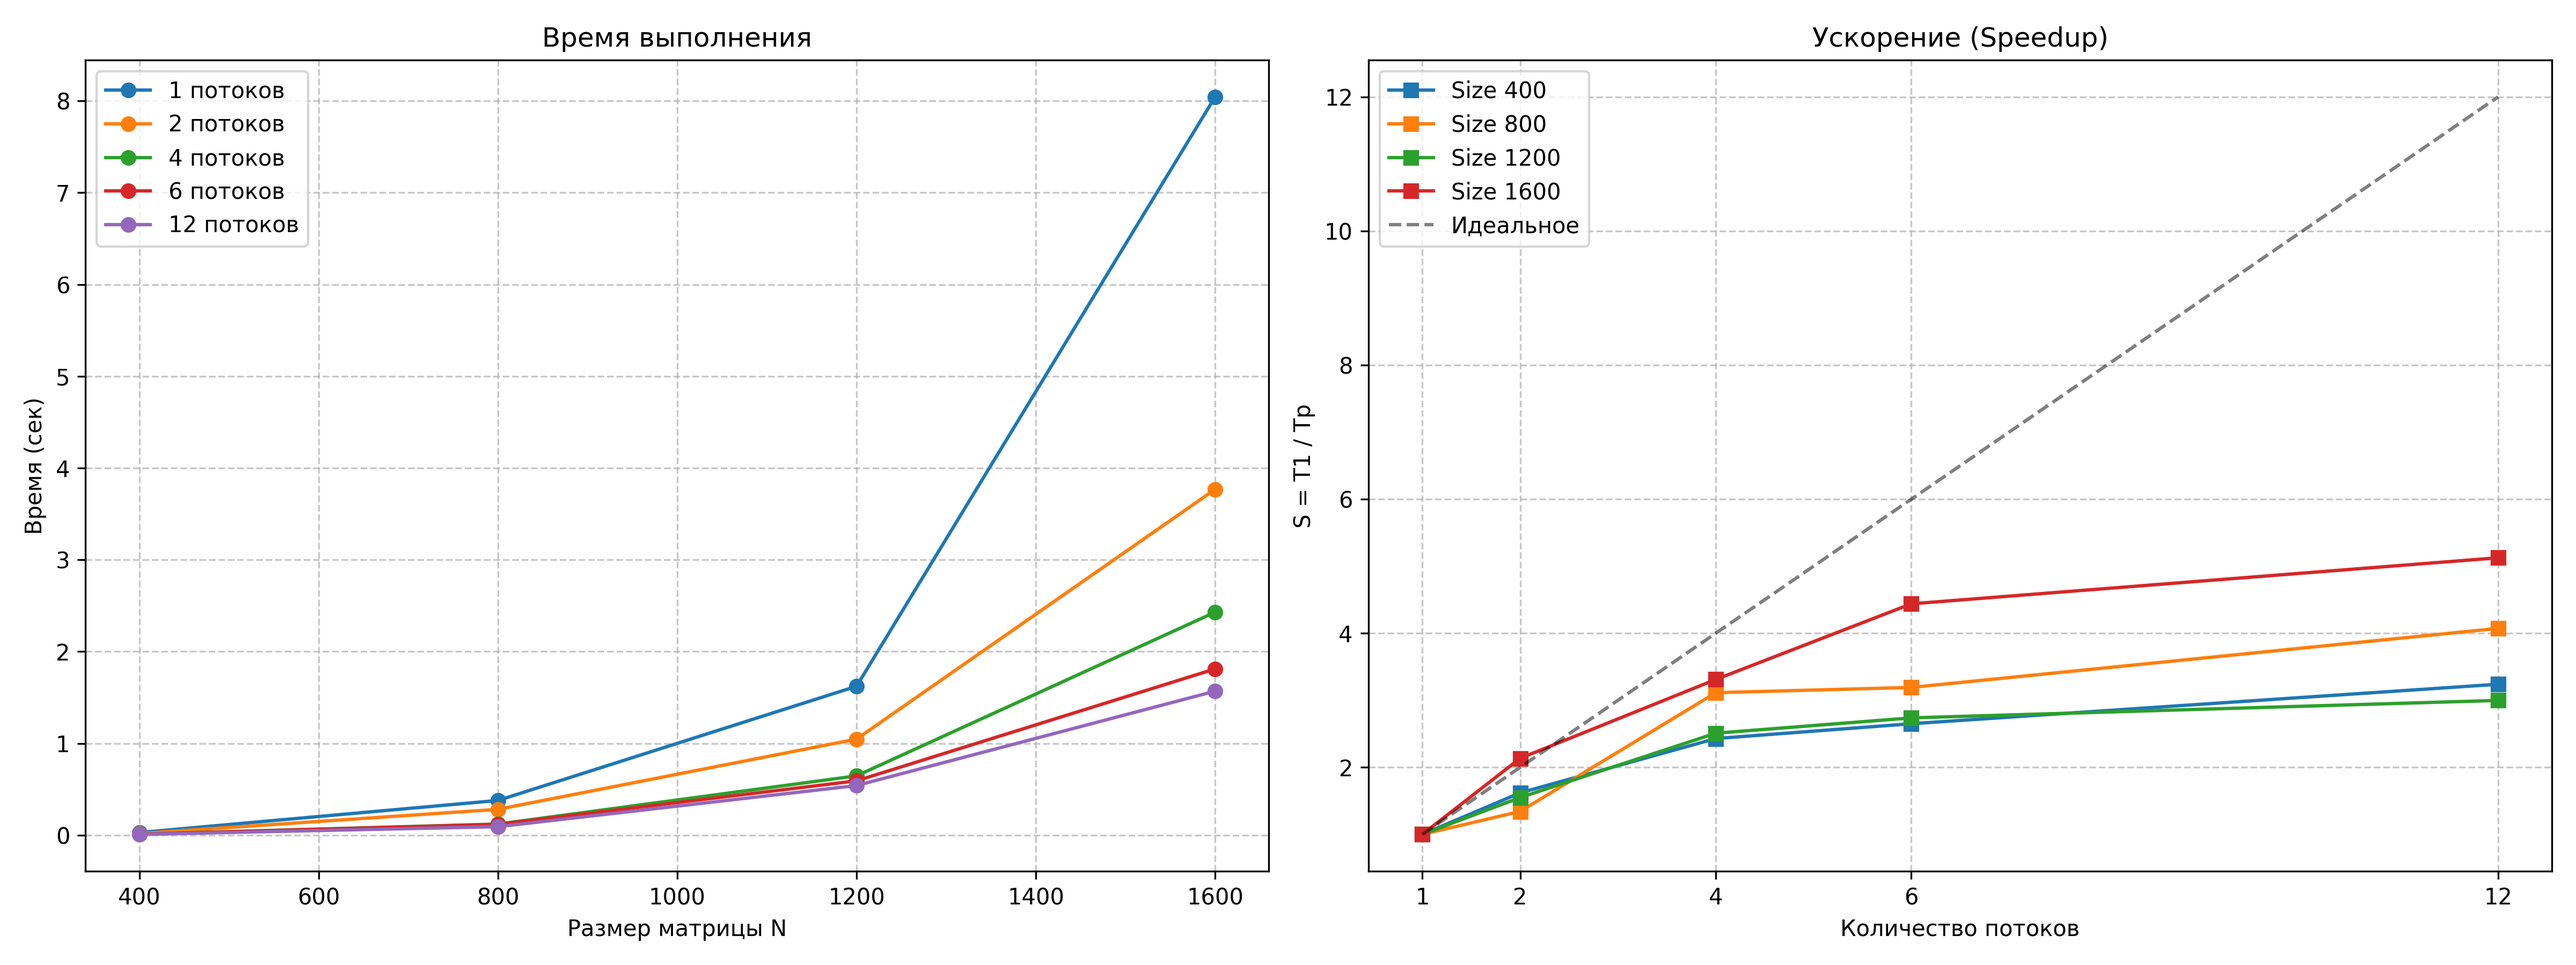
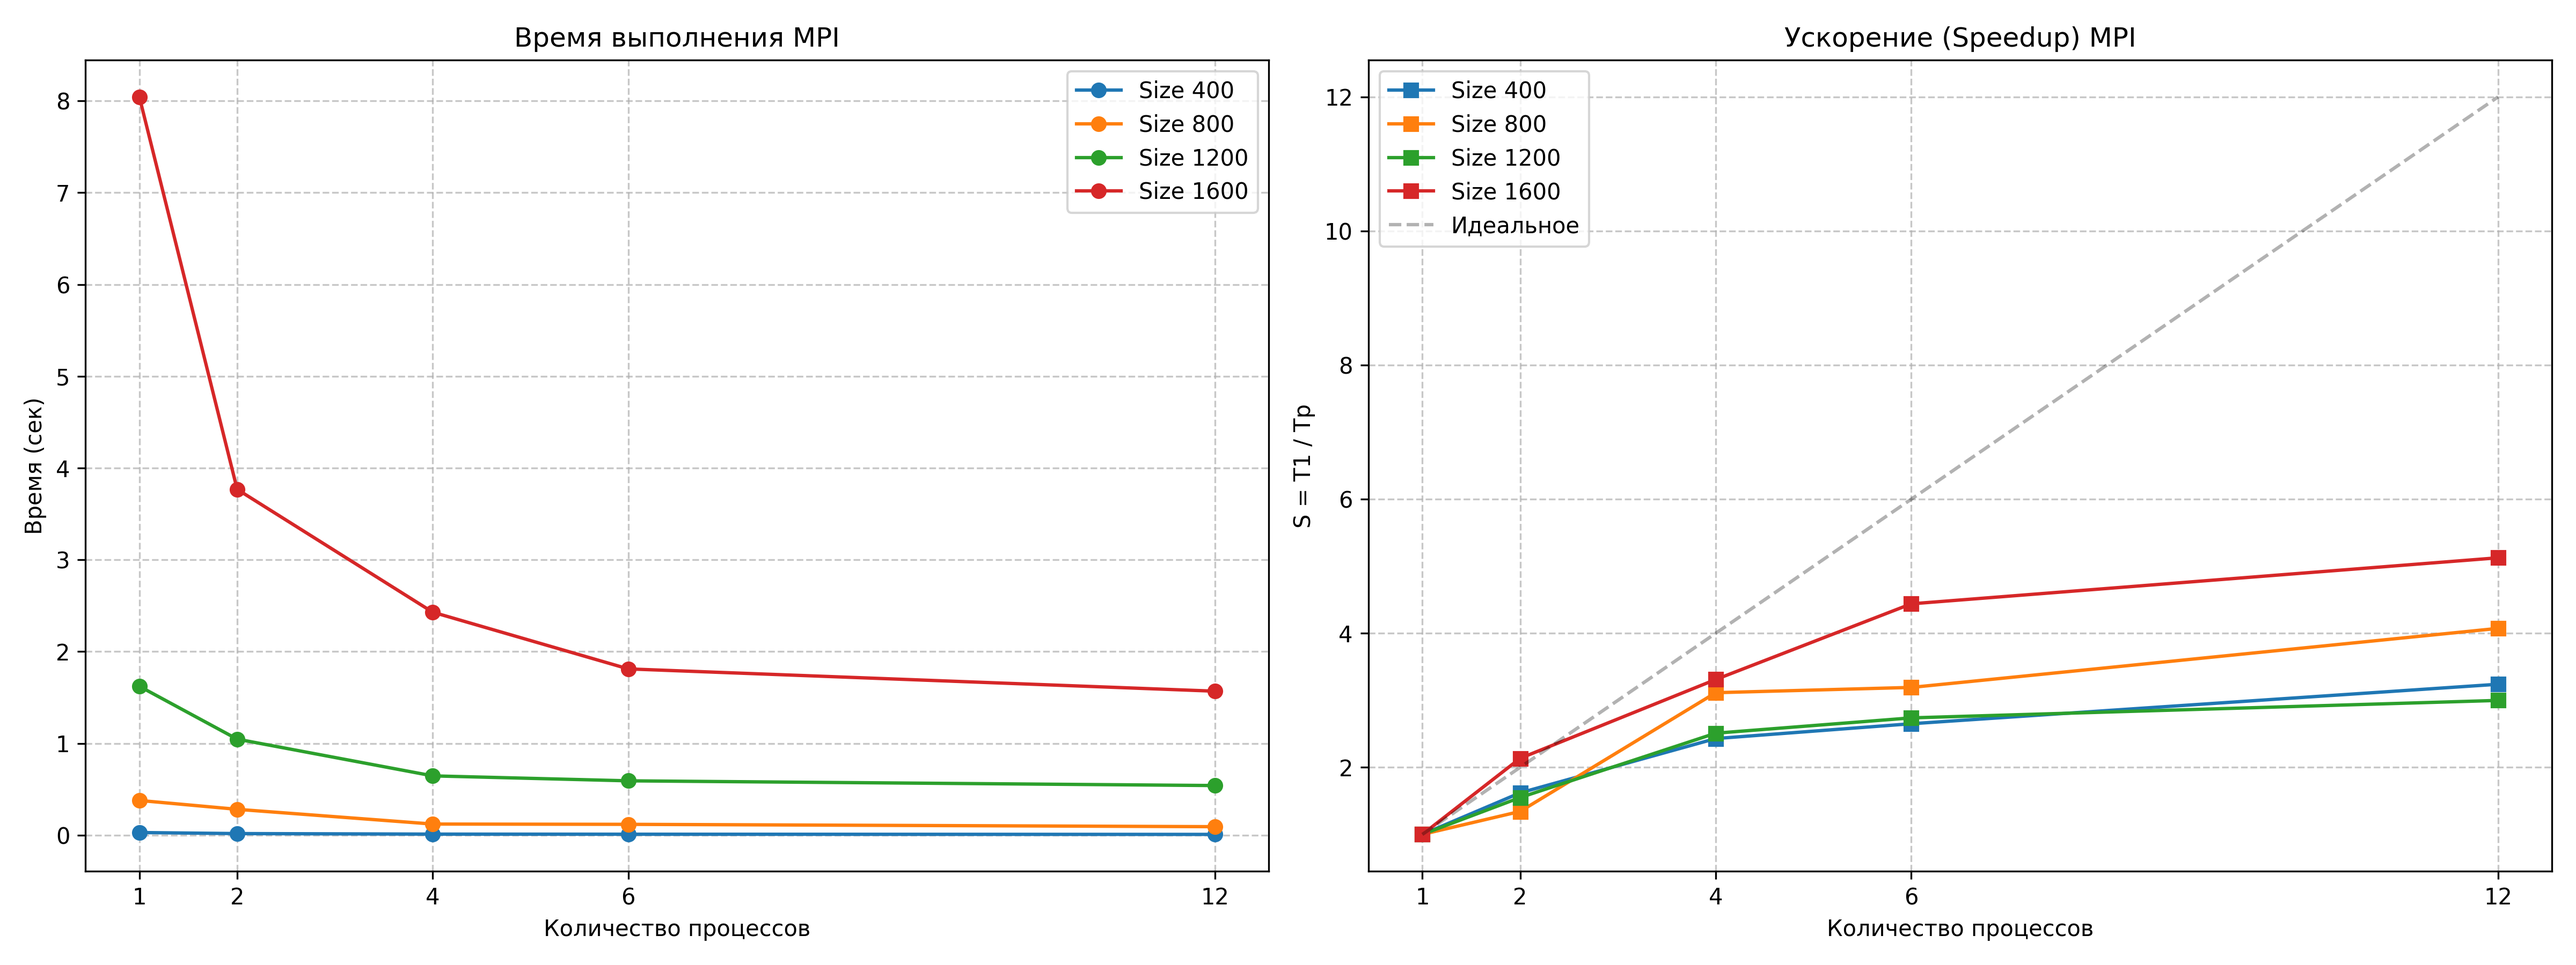
Add graph3.py in lab3

diff --git a/lab3/graph3.py b/lab3/graph3.py
@@ -1,14 +1,13 @@
 import matplotlib.pyplot as plt
 import numpy as np
 
-sizes = [400, 800, 1200, 1600]
+sizes = [600, 1200, 1600]
 procs = [1, 2, 4, 6, 12]
 
 time_data = [
-    [0.029156, 0.0179999, 0.0120001, 0.0109999, 0.00899982],
-    [0.378782, 0.282165, 0.121654, 0.118654, 0.0929999],
-    [1.622564, 1.046935, 0.64657, 0.59262, 0.541155],
-    [8.04316, 3.76821, 2.42968, 1.811853, 1.56915]
+    [0.111024, 0.0585902, 0.0518055, 0.050834, 0.041261],
+    [1.92964, 1.63331, 1.12144, 1.00304, 0.959468],
+    [6.616, 4.22438, 2.82081, 2.37644, 2.30873]
 ]
 
 fig, (ax1, ax2) = plt.subplots(1, 2, figsize=(16, 6))
@@ -39,5 +38,5 @@ ax2.grid(True, linestyle='--', alpha=0.7)
 ax2.legend()
 
 plt.tight_layout()
-plt.savefig('openmp_graph.png', dpi=300)
+plt.savefig('mpi_graph.png', dpi=300)
 plt.show()
